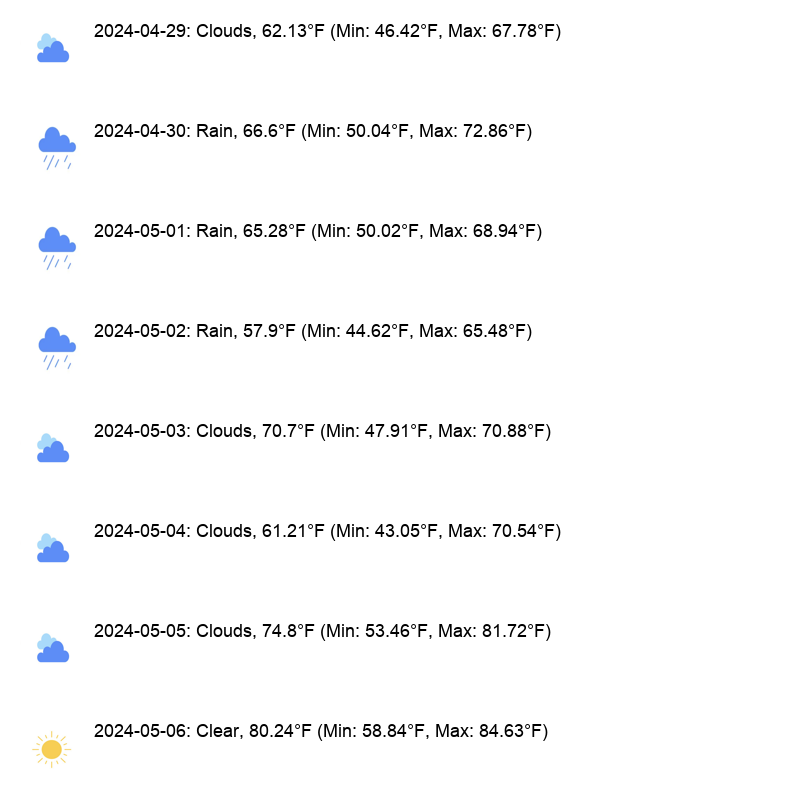
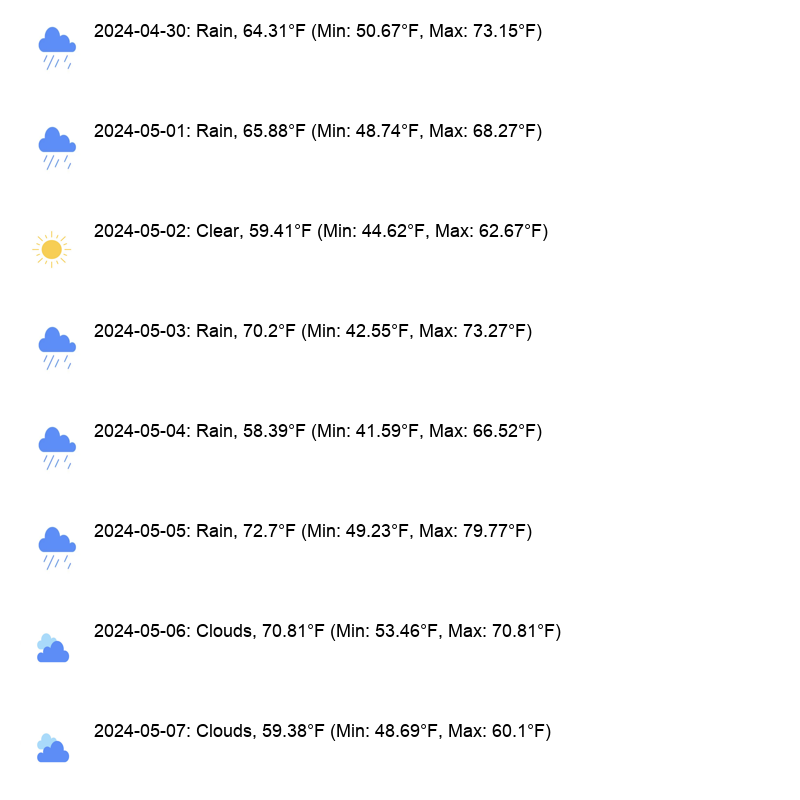
working twitter poster

diff --git a/processor/macprocessor.py b/processor/macprocessor.py
@@ -1,27 +1,65 @@
 import socket
-import zlib
-import json
 import os
 import subprocess
 import time
+import json
+import brotli  # Import the brotli module
+import zlib
 
+class ServerConnection:
+    def __init__(self, server_ip, port):
+        self.server_ip = server_ip
+        self.port = port
+        self.sock = None
 
-def connect_to_server(server_ip, port=65434):
-    try:
-        with socket.socket(socket.AF_INET, socket.SOCK_STREAM) as sock:
-            sock.connect((server_ip, port))
-            print("Connected to server.")
-            # Receive the size of the compressed data first
-            data_size = int.from_bytes(sock.recv(4), 'big')
+    def connect(self):
+        """Establish a connection to the server."""
+        self.sock = socket.socket(socket.AF_INET, socket.SOCK_STREAM)
+        self.sock.connect((self.server_ip, self.port))
+        print("Connected to server.")
+
+    def close(self):
+        """Close the server connection."""
+        if self.sock:
+            self.sock.close()
+            print("Disconnected from server.")
+
+    def send_file(self, file_path):
+        """Send a compressed file using the existing connection."""
+        try:
+            with open(file_path, 'rb') as file:
+                file_data = file.read()  # Read the entire file into memory
+
+            # Compress the data using Brotli
+            compressed_data = brotli.compress(file_data)
+            compressed_size = len(compressed_data)
+            print(f"Original size: {os.path.getsize(file_path)} bytes; Compressed size: {compressed_size} bytes")
+
+            # Send the size of the compressed file to the server
+            self.sock.sendall(compressed_size.to_bytes(8, 'big'))
+
+            # Send the compressed file data
+            self.sock.sendall(compressed_data)
+            print(f"Compressed file {file_path} has been sent successfully.")
+            
+        except socket.error as e:
+            print(f"Socket error during file send: {e}")
+        except Exception as e:
+            print(f"Error during file send: {e}")
+
+    def receive_and_process_data(self):
+        """Receive compressed data, decompress, save and call a subprocess."""
+        try:
+            data_size = int.from_bytes(self.sock.recv(4), 'big')
             print("Size of data_size: ", data_size)
             compressed_data = b''
             while len(compressed_data) < data_size:
-                packet = sock.recv(4096)
+                packet = self.sock.recv(4096)
                 if not packet:
                     break
-                compressed_data += packet  # Ensure this is inside the loop
+                compressed_data += packet
 
-            # Decompress the data
+            # Decompress the data using zlib
             decompressed_data = zlib.decompress(compressed_data)
             data = json.loads(decompressed_data.decode('utf-8'))
             print("Received decompressed JSON data:")
@@ -31,48 +69,29 @@ def connect_to_server(server_ip, port=65434):
             with open('output.json', 'w') as json_file:
                 json.dump(data, json_file, indent=4)
             print("Data saved to 'output.json'.")
-            
+
+            # Wait and then call a subprocess
             time.sleep(20)
-            print("Pretty.py")
+            print("Calling subprocess: pretty.py")
             subprocess.call(['python3', 'pretty.py'])
+            time.sleep(10)
+            print("Calling twitter.py to upload weather")
+            subprocess.call(['python3', 'twitter.py'])
+            
 
-    except socket.error as e:
-        print(f"Could not connect to server {server_ip} on port {port}: {e}")
-    except Exception as e:
-        print(f"An error occurred: {e}")
-
-def send_file_to_pi(server_ip, port, file_path):
-    try:
-        with socket.socket(socket.AF_INET, socket.SOCK_STREAM) as sock:
-            sock.connect((server_ip, port))
-            print(f"Connected to Pi server at {server_ip} on port {port}.")
-
-            #comment
-
-            # Get the size of the file
-            file_size = os.path.getsize(file_path)
-            # Send the size of the file to the server
-            sock.sendall(file_size.to_bytes(8, 'big'))
-
-            # Send the file in chunks
-            with open(file_path, 'rb') as file:
-                bytes_sent = 0
-                while bytes_sent < file_size:
-                    chunk = file.read(4096)
-                    sock.sendall(chunk)
-                    bytes_sent += len(chunk)
-
-            print(f"File {file_path} has been sent successfully.")
-
-    except socket.error as e:
-        print(f"Could not connect to Pi server {server_ip} on port {port}: {e}")
-    except Exception as e:
-        print(f"An error occurred while sending the file: {e}")
+        except socket.error as e:
+            print(f"Socket error during data receive: {e}")
+        except Exception as e:
+            print(f"An error occurred: {e}")
 
 if __name__ == "__main__":
     SERVER_IP = '10.0.0.224'
-    port = 65434
-    connect_to_server(SERVER_IP, 65434)
+    PORT = 65434
     FILE_PATH = 'weather_dashboard.png'
-    send_file_to_pi(SERVER_IP, port, FILE_PATH)
-    print("Sending Fle to Pi")
+    
+    conn = ServerConnection(SERVER_IP, PORT)
+    conn.connect()
+    conn.receive_and_process_data()
+    conn.send_file(FILE_PATH)
+    conn.close()
+    print("Operations completed on server.")

diff --git a/pi/server.py b/pi/server.py
@@ -71,32 +71,28 @@ def send_data_to_processor(client_socket, data):
         print(f"An error occurred when sending to processor: {e}")
 
 def receive_file_from_client(client_socket, file_path):
-    file_size = int.from_bytes(client_socket.recv(4), 'big')
-    print("file_size Recieved: ", file_size)
-    with open(file_size, 'wb') as file:
-        print("A")
-        bytes_received = 0
-        
-        while bytes_received < file_size:
-            print("B")
+    try:
+        file_size = int.from_bytes(client_socket.recv(4), 'big')
+        print("Expected file size to receive:", file_size)
+        received_data = b''
+
+        while len(received_data) < file_size:
             chunk = client_socket.recv(4096)
             if not chunk:
-                break
-            file.write(chunk)
-            bytes_received += len(chunk)
-        if bytes_received != file_size:
+                break  # This happens when the connection is closed
+            received_data += chunk
+            print(f"Received {len(received_data)} of {file_size} bytes")
+
+        # Write the data to file only after full reception
+        if len(received_data) == file_size:
+            with open(file_path, 'wb') as file:
+                file.write(received_data)
+            print(f"File {file_path} has been written successfully.")
+        else:
             print("Warning: Mismatch in file size received and expected.")
-    '''compressed_data = b''
-    while len(compressed_data) < file_size:
-        packet = client_socket.recv(4096)
-        if not packet:
-            break
-        compressed_data += packet
-        
-        # Decompress the data
-    decompressed_data = zlib.decompress(compressed_data)
-    with open(file_path, 'wb') as file:
-        file.write(decompressed_data)'''
+    except Exception as e:
+        print(f"An error occurred while receiving the file: {e}")
+
 
 if __name__ == "__main__":
     #file_path = 'weather_dashboard.png'

diff --git a/processor/twitter.py b/processor/twitter.py
@@ -1,0 +1,40 @@
+import tweepy
+
+# Credentials (assuming these are imported or defined within this script)
+bearer_token = 'AAAAAAAAAAAAAAAAAAAAAHhdtgEAAAAAzyTI61RTi9eyvWpMkaEsHbVlaZs%3DDf18EVNElHJZJp1O4zdIag1eGK4j1HrjpKoDztUrPtWnfMJQgy'
+consumer_key = 'yM4eMeEz6st75EjJrjxoCsn4q'
+consumer_secret = '9fAme6T55FTVMo9iCkduMcjcvUC4irssgsF4rQUfyINLK0xrof'
+access_token = '1038707698718699520-nnPdMS4HOZQjuYTl1NdGpbBEGJoLuH'
+access_token_secret = 'p6P2qvMvLg7IQFPMUAS4ECR9QDDE7JAexpi4D35IC38pC'
+
+
+auth = tweepy.OAuthHandler(consumer_key, consumer_secret)
+auth.set_access_token(access_token, access_token_secret)
+api = tweepy.API(auth, wait_on_rate_limit=True)
+
+# V2 Twitter API Authentication
+client = tweepy.Client(
+    bearer_token,
+    consumer_key,
+    consumer_secret,
+    access_token,
+    access_token_secret,
+    wait_on_rate_limit=True
+)
+
+def load_image(img_path):
+    media_id = api.media_upload(filename = img_path).media_id_string
+    return media_id
+
+def tweet_text(text):
+    client.create_tweet(text = text)
+    print("Tweeted: " + text)
+
+def tweet_text_and_media(text, media):
+    media_id = load_image(media)
+    client.create_tweet(text = text, media_ids = [media_id])
+    print(f"\n\tTwitter Bot: Successfully Tweeted!\n\n{text}\n\nMedia ID:  {media_id}\n\n")
+
+
+tweet_text_and_media("Daily Weather: ", "weather_dashboard.png")
+

diff --git a/scraper/macscraper.py b/scraper/macscraper.py
@@ -36,8 +36,8 @@ class WeatherScraper:
 
 def scrape_weather_forecast():
     api_key = '1ca0f59fe93a61361be975d8d29c21c7'
-    latitude = 39.7392  # Latitude for Denver, Colorado
-    longitude = -104.9903  # Longitude for Denver, Colorado
+    latitude = 40.5853  # Latitude for Fort Collins, Colorado
+    longitude = -105.0844  # Longitude for Fort Collins, Colorado
     scraper = WeatherScraper(api_key)
     forecast_data = scraper.fetch_weather_forecast(latitude, longitude)
     return forecast_data
